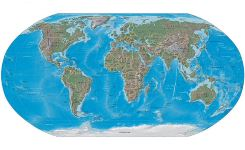
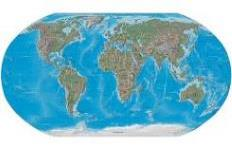
changed country picture size

diff --git a/home/templates/home/cards/countries_card.html b/home/templates/home/cards/countries_card.html
@@ -5,7 +5,7 @@
         {% trans 'Countries' %}
     </div>
     <div class="card-image-box">
-        <img class="card-image rounded" src="{% static 'home/img/world_map.jpg' %}">
+        <img class="card-image rounded" src="{% static 'home/img/world_map.jpg' %}?v=2">
     </div>
     <div class="card-body">
         <p class="card-text">{% trans 'Displays a list of ants, which can be found in a specific country or state. The list contains both native and non native species.' %}</p>
